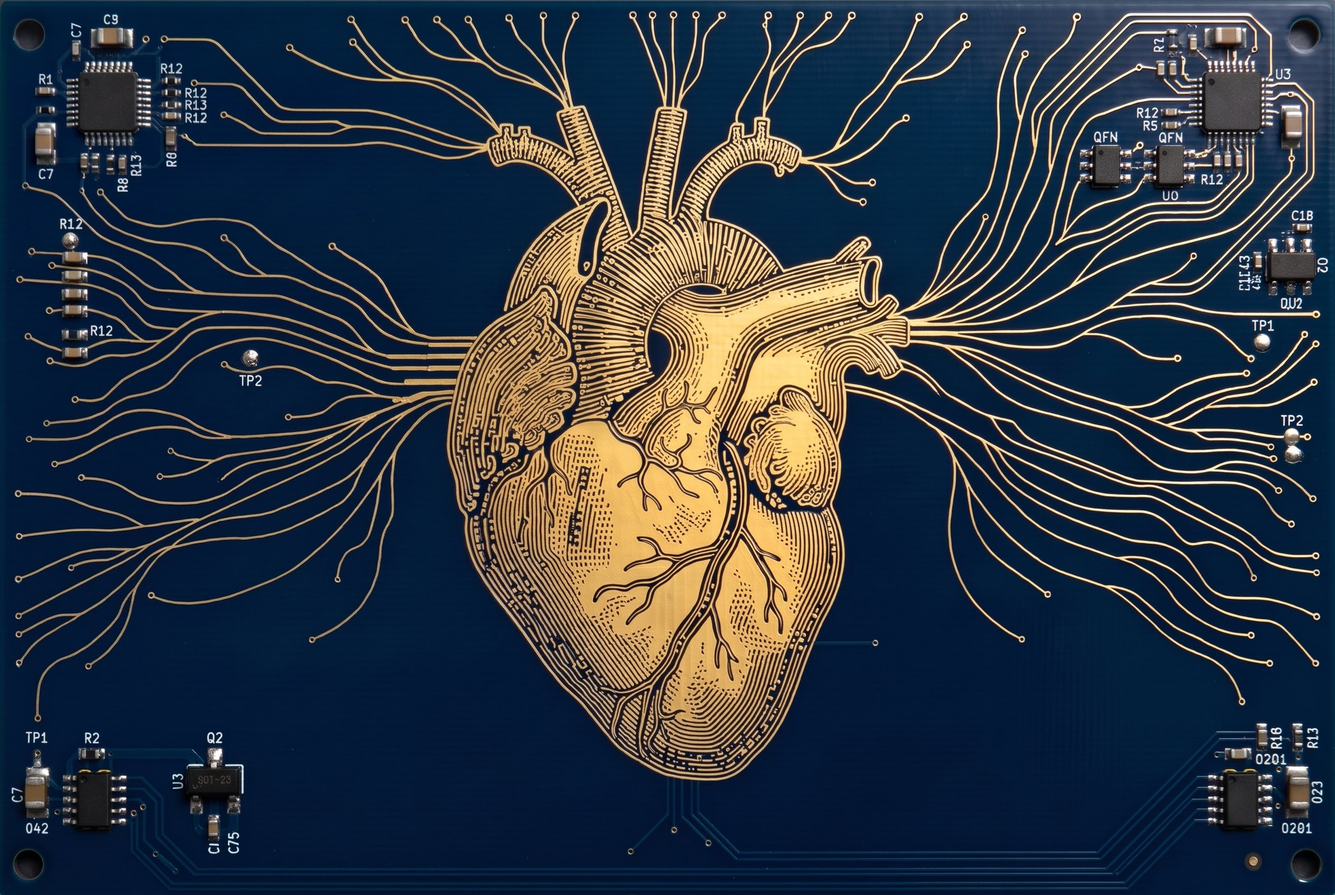
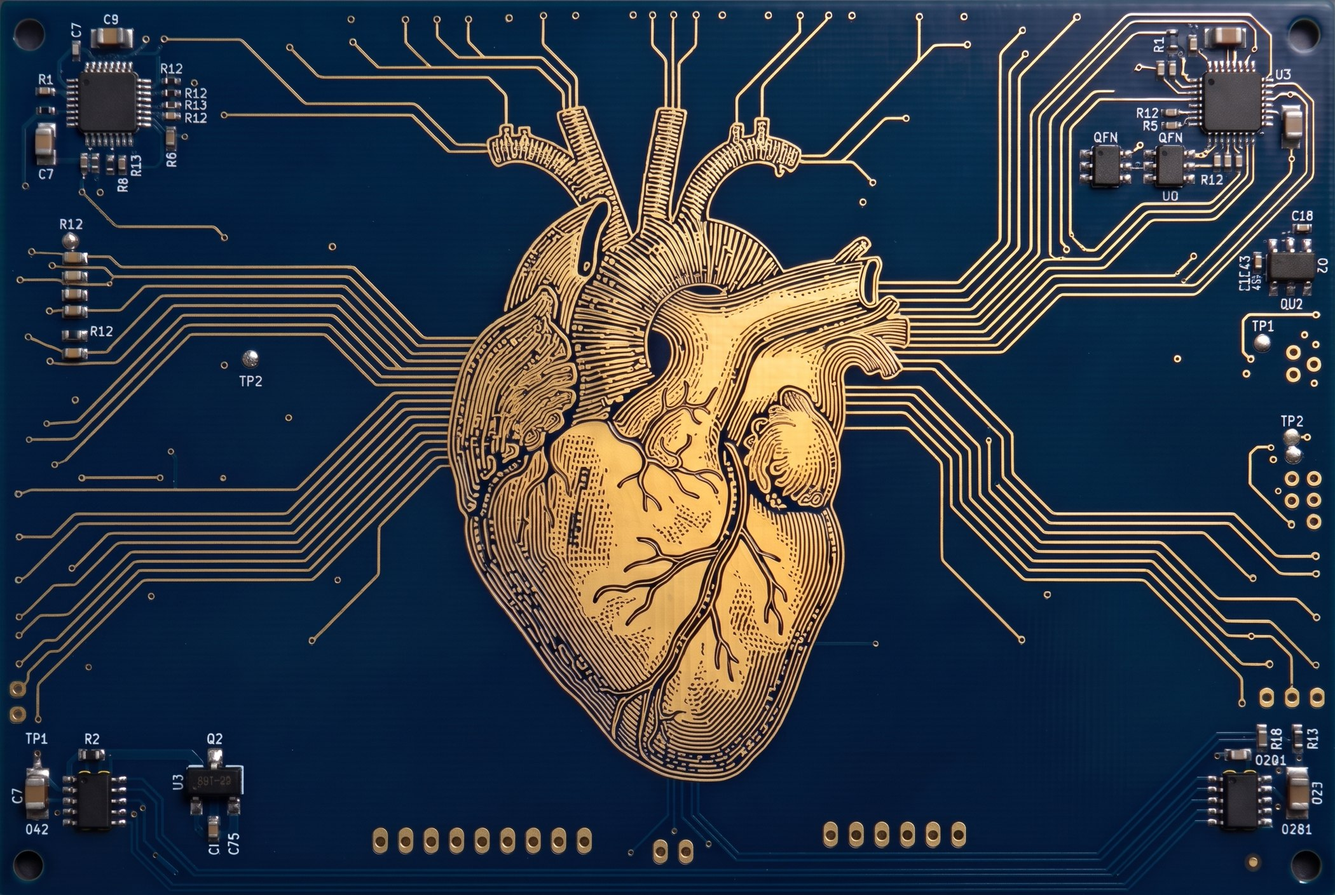
day-261118 회로를 직선·45° 배선으로, 라벨은 패드 바로 옆 빈 자리에

diff --git a/day-261118/main.js b/day-261118/main.js
@@ -1,5 +1,5 @@
 import { unlock, play as sound, now } from './audio.js';
-import { buildCircuit, paintCircuit } from './circuit.js?v=11';
+import { buildCircuit, paintCircuit } from './circuit.js?v=12';
 
 const NOTES = [
   { k: '쿵', n: 'HB', f: 0, type: 'thump' },
@@ -24,7 +24,7 @@ const GOLD = '#e7c36a', SILK = '#e8eef4';
 const MONO = '"Share Tech Mono", monospace', KR = '"Noto Sans KR", sans-serif';
 
 const cv = document.getElementById('c'), ctx = cv.getContext('2d');
-const img = new Image(); img.src = 'board.jpg?v=4';
+const img = new Image(); img.src = 'board.jpg?v=5';
 const clamp = (v, a, b) => Math.max(a, Math.min(b, v));
 const ease = t => { t = clamp(t, 0, 1); return t * t * (3 - 2 * t); };
 
@@ -60,8 +60,8 @@ function labelSpot(p, taken) {
     return n;
   };
   let best = null, bs = 1e9;
-  for (let ring = 0; ring < 7; ring++) for (let k = 0; k < 32; k++) {
-    const a = k / 32 * Math.PI * 2, rr = L.pr + fs * (1.6 + ring * .7), x = p.x + Math.cos(a) * rr, y = p.y + Math.sin(a) * rr * .85;
+  for (let ring = 0; ring < 3; ring++) for (let k = 0; k < 48; k++) {
+    const a = k / 32 * Math.PI * 2, rr = L.pr + fs * (1.35 + ring * .45), x = p.x + Math.cos(a) * rr, y = p.y + Math.sin(a) * rr * .85;
     const sc = cover(x, y) * 10 + ring * 3;
     if (sc < bs) { bs = sc; best = [x, y]; }
   }
@@ -173,12 +173,6 @@ function frame(t) {
     sg.addColorStop(0, '#ffffff'); sg.addColorStop(.35, lit > .05 ? '#fff4d6' : '#d5dbe1'); sg.addColorStop(1, '#6f7884');
     ctx.fillStyle = sg; ctx.beginPath(); ctx.arc(p.x, p.y, r * .74, 0, Math.PI * 2); ctx.fill();
     const fs = clamp(L.R * .07, 12, 16), lx = p.lx ?? p.x, lyy = p.ly ?? p.y;
-    const ldx = lx - p.x, ldy = lyy - p.y, ld = Math.hypot(ldx, ldy);
-    if (ld > fs * 2.6) {
-      const ux = ldx / ld, uy = ldy / ld;
-      ctx.strokeStyle = 'rgba(226,230,228,.55)'; ctx.lineWidth = 1;
-      ctx.beginPath(); ctx.moveTo(p.x + ux * (r + 3), p.y + uy * (r + 3)); ctx.lineTo(lx - ux * fs * 1.25, lyy - uy * fs * 1.05); ctx.stroke();
-    }
     ctx.textAlign = 'center'; ctx.textBaseline = 'middle';
     ctx.font = `500 ${fs}px ${KR}`;
     ctx.fillStyle = 'rgba(226,230,228,.22)'; ctx.fillText(n.k, lx + .6, lyy - fs * .35 + .6);

diff --git a/day-261118/index.html b/day-261118/index.html
@@ -28,6 +28,6 @@
 <header id="top"><span>두근 회로 · HB-NOTIFIER REV.1</span><a href="../index.html">← INDEX</a></header>
 <nav id="sel"><div id="cases"></div><div id="cdesc"></div></nav>
 <div id="ctl"><button id="play">▶ PLAY</button><button id="clear">CLEAR</button></div>
-<script type="module" src="main.js?v=17"></script>
+<script type="module" src="main.js?v=18"></script>
 </body>
 </html>
